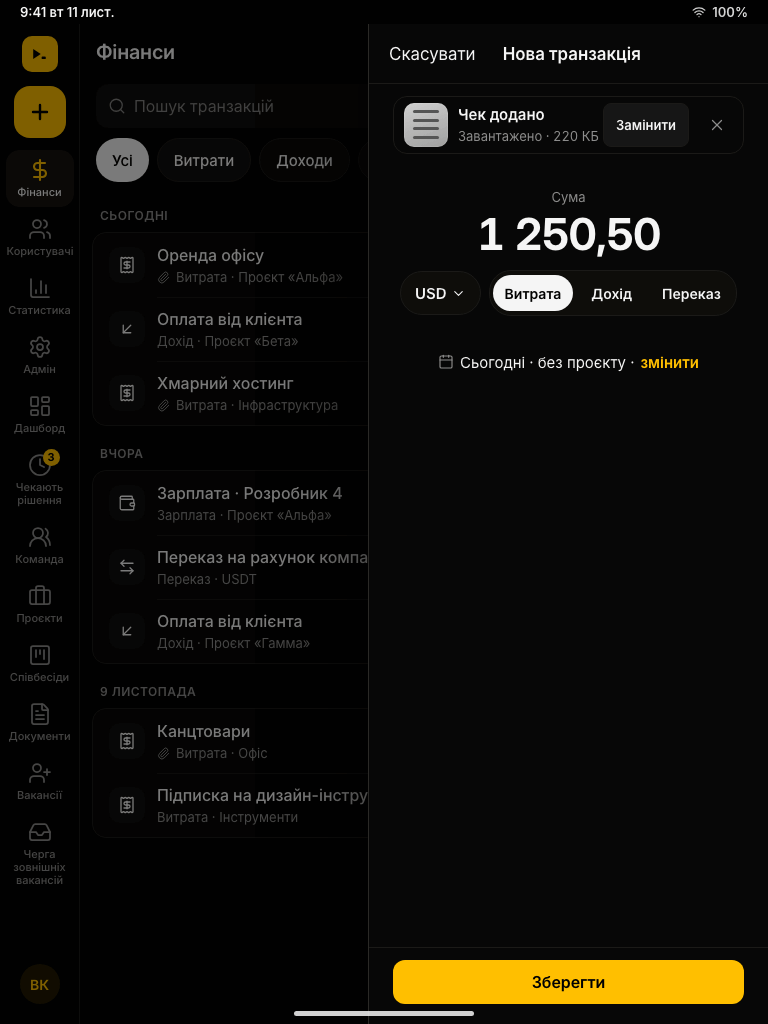
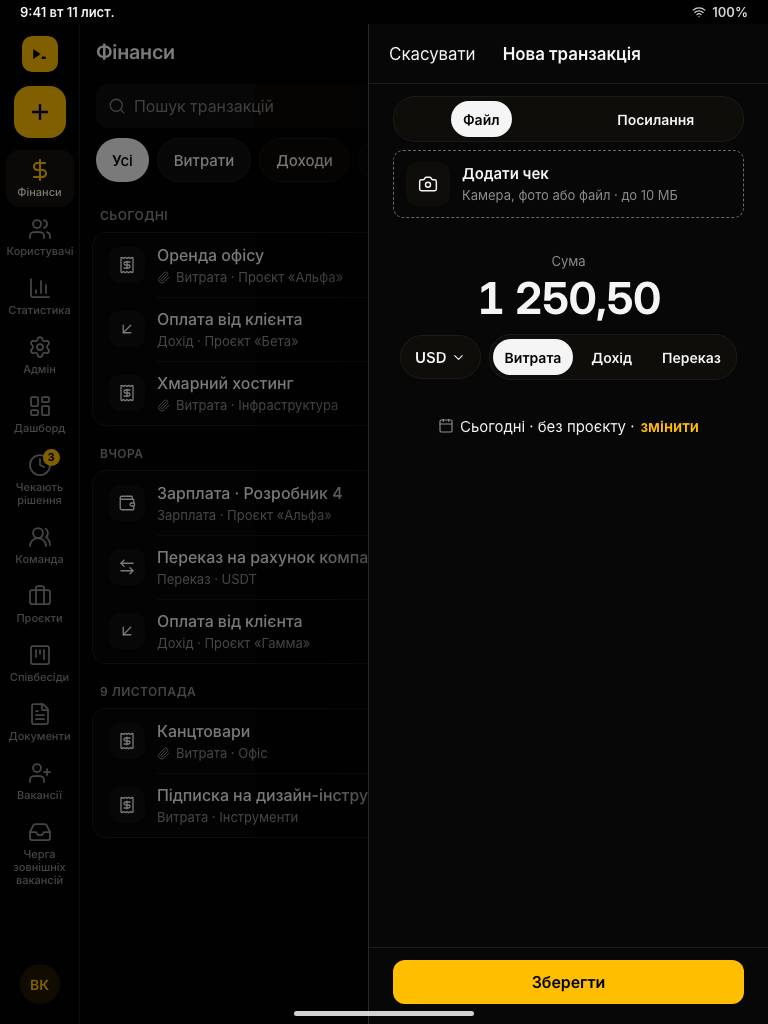
wip: money drafts per size table, tablet panel with the empty receipt switch (fix7 E)

diff --git a/docs/design/screens/_foundation/shell-v2.md b/docs/design/screens/_foundation/shell-v2.md
@@ -202,6 +202,23 @@ tab bar holds **4 destinations + «Ще»**. «Ще» holds everything else, gro
 - 880 px dialog, three columns: Загальні · Перехід · Списки. Top: a switch «Однолітерні скорочення»
   (single-key shortcuts on/off), stored on the device (SC 2.1.4). With it off, only modifier shortcuts work.
 
+### Money drafts per size (one model, three placements)
+
+The draft state model is the same everywhere (`foundation.md` §11 money drafts); only the placement
+changes.
+
+| Concern                                  | Phone (< 640)                                                                                                                                 | Tablet (640–1023)                                                                                       | Desktop (≥ 1024)                                                                                                  |
+| ---------------------------------------- | --------------------------------------------------------------------------------------------------------------------------------------------- | ------------------------------------------------------------------------------------------------------- | ----------------------------------------------------------------------------------------------------------------- |
+| Where a new draft starts                 | The FAB (on Фінанси it is «Нова транзакція»), or the quick-add menu elsewhere                                                                 | The rail «+» (top of the rail), the same action                                                         | The header primary «Нова транзакція» (`C`), or Cmd+K → Дії                                                        |
+| The start control with unresolved drafts | One: the FAB reopens it («Відкрити чернетку 1 250,50 USD», `file-pen` + red dot). 2+: «Відкрити 2 чернетки», opens Фінанси at the pinned rows | Same rule on the rail «+» (name, icon and dot)                                                          | Same rule on the header button: its label becomes «Відкрити чернетку» / «Відкрити 2 чернетки», the dot sits on it |
+| Form container                           | Large sheet (`quick-add-txn-*`) or the pushed page (`form-money-375`)                                                                         | Side panel, 400 px, the same `moneyBody()` (`primitives-v2/sheet-panel-768`)                            | Side panel, 420 at 1024 / 480 at 1440 (`sheet-panel-1024`, `sheet-panel-1440`)                                    |
+| The pill slot                            | Above the tab bar, left of the FAB (§2 floating-layer stacking)                                                                               | The toast slot: centred 24 px above the bottom edge, 420 wide, right of the rail; toasts stack above it | The toast slot: bottom-left of the main area next to the sidebar; toasts stack above it                           |
+| Pinned draft rows                        | Top of the Фінанси list                                                                                                                       | Top of the Фінанси list pane                                                                            | Top of the Фінанси table, above the first group                                                                   |
+| «Перевірити список» (form is open)       | The check sheet «Нові записи» over the kept form sheet                                                                                        | A centred 560 px dialog «Нові записи» over the side panel; the panel stays mounted and keeps the draft  | The same 560 px dialog over the side panel                                                                        |
+| Focus after the check closes             | Back to «Перевірити список»                                                                                                                   | Back to «Перевірити список» in the panel                                                                | Same                                                                                                              |
+| Receipt switch (empty receipt)           | «Файл» / «Посилання», 44 px segmented above the tile                                                                                          | The same switch, 44 px, in the panel (`sheet-panel-768`)                                                | The same switch; 36 px on `(pointer: fine)`, 44 on `(pointer: coarse)`                                            |
+| Receipt, effective currency USDT         | The explorer-link field only, no switch (`form-receipt-usdt-empty-375`)                                                                       | Same                                                                                                    | Same                                                                                                              |
+
 ---
 
 ## 5. Frames (all PNG under `assets/shell-v2/`)
